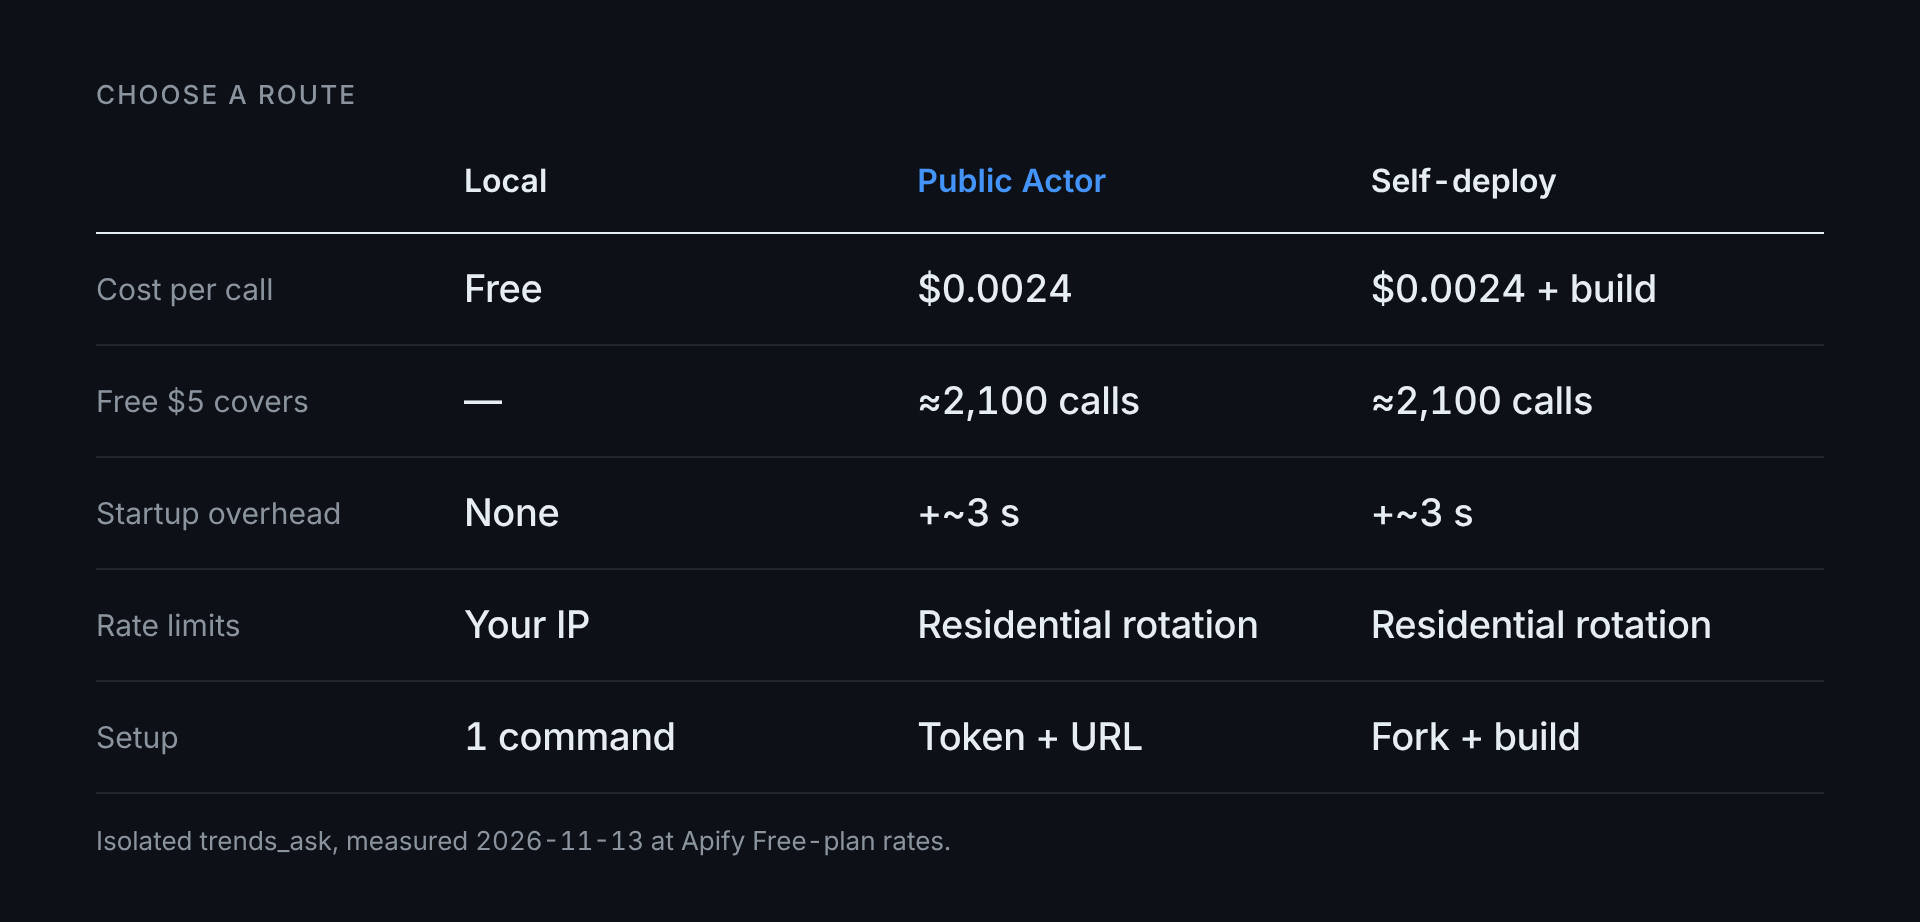
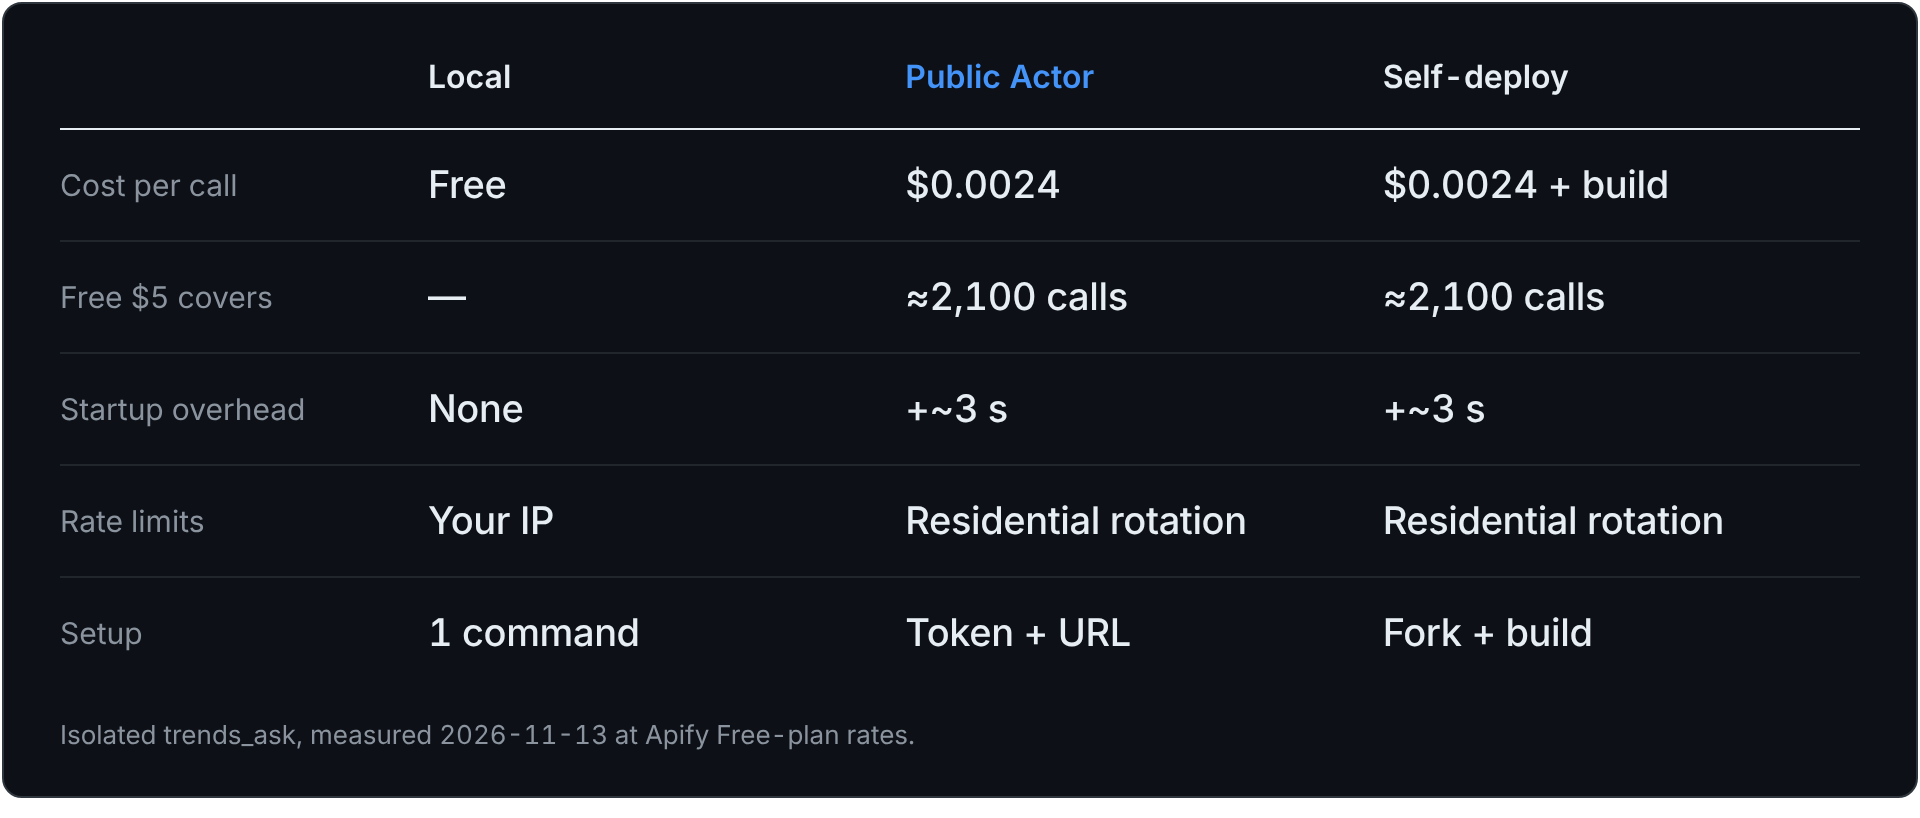
docs: cleaner route section — carded route graphic first, one-line note, three parallel start links (EN/ZH)

diff --git a/README.zh-CN.md b/README.zh-CN.md
@@ -26,20 +26,16 @@
 
 ## 选择路线
 
-| 路线 | 一键使用 | 费用 |
-| --- | --- | --- |
-| **本机直连（你的 IP）** | `npx -y -p github:meka-im/google-trends-for-agent#v0.2.0 gtfa snapshot Sora --geo US` | 免费；无需 Apify 账号。 |
-| **公共 Actor（meka.im）** | [在 Apify 试用 →](https://apify.com/meka.im/google-trends-for-agent) | 无 Actor 费用；每次调用约 $0.0024，免费版每月 $5 ≈ 2,100 次调用。 |
-| **自行部署** | [Fork](https://github.com/meka-im/google-trends-for-agent/fork)，然后按下面四步操作。 | 每次调用约 $0.0024，另加每次构建约 $0.005。 |
-
 <picture>
   <source media="(prefers-color-scheme: dark)" srcset="docs/assets/routes-zh-dark.png">
   <img src="docs/assets/routes-zh.png" alt="路线对比：每次调用费用、免费 $5 可用次数、启动开销、限流应对、准备">
 </picture>
 
-启动开销是空闲后首次调用的额外等待；冷 Actor 偶尔可能长达约 2 分钟。
+<sub>冷 Actor 首次调用偶尔可能长达约 2 分钟。快照、热调用和构建费用见 [Actor costs](docs/reference.md#actor-costs)。</sub>
 
-公共 Standby 实测：单次 `trends_ask` ≈ $0.0024（2026-11-13 实测，Apify 免费版费率）；快照 ≈ $0.0029；额外热调用 ≈ $0.0008。快照、会话和计算公式见 [Actor costs](docs/reference.md#actor-costs)。
+- **本机直连** — [运行一条 npx 命令 →](#安装与快速开始)
+- **公共 Actor** — [在 Apify 试用 →](https://apify.com/meka.im/google-trends-for-agent)
+- **自行部署** — [Fork 并部署 →](#deploy-it-yourself)
 
 <a id="deploy-it-yourself"></a>
 

diff --git a/README.md b/README.md
@@ -26,20 +26,16 @@
 
 ## Choose a route
 
-| Route | One click | Cost |
-| --- | --- | --- |
-| **Local (your IP)** | `npx -y -p github:meka-im/google-trends-for-agent#v0.2.0 gtfa snapshot Sora --geo US` | Free; no Apify account. |
-| **Public Actor (meka.im)** | [Try on Apify →](https://apify.com/meka.im/google-trends-for-agent) | No Actor fee; ~$0.0024 per call, so the Free plan's $5/month ≈ 2,100 calls. |
-| **Self-deploy** | [Fork](https://github.com/meka-im/google-trends-for-agent/fork), then follow the four steps below. | ~$0.0024 per call, plus ~$0.005 per build. |
-
 <picture>
   <source media="(prefers-color-scheme: dark)" srcset="docs/assets/routes-en-dark.png">
   <img src="docs/assets/routes-en.png" alt="Routes compared: cost per call, calls per free $5, startup overhead, rate limits, setup">
 </picture>
 
-Startup overhead is extra time on the first call after idle; a cold Actor can occasionally take up to ~2 minutes.
+<sub>A cold Actor can occasionally take up to ~2 min on its first call. Snapshot, warm-call and build costs: [Actor costs](docs/reference.md#actor-costs).</sub>
 
-Measured on the public Standby URL: isolated `trends_ask` ≈ $0.0024 (measured 2026-11-13, Apify Free-plan rates); snapshots ≈ $0.0029; extra warm calls ≈ $0.0008. Snapshots, sessions and the cost formula: [Actor costs](docs/reference.md#actor-costs).
+- **Local** — [Run one npx command →](#install--quick-start)
+- **Public Actor** — [Try on Apify →](https://apify.com/meka.im/google-trends-for-agent)
+- **Self-deploy** — [Fork and deploy →](#deploy-it-yourself)
 
 ### Deploy it yourself
 
